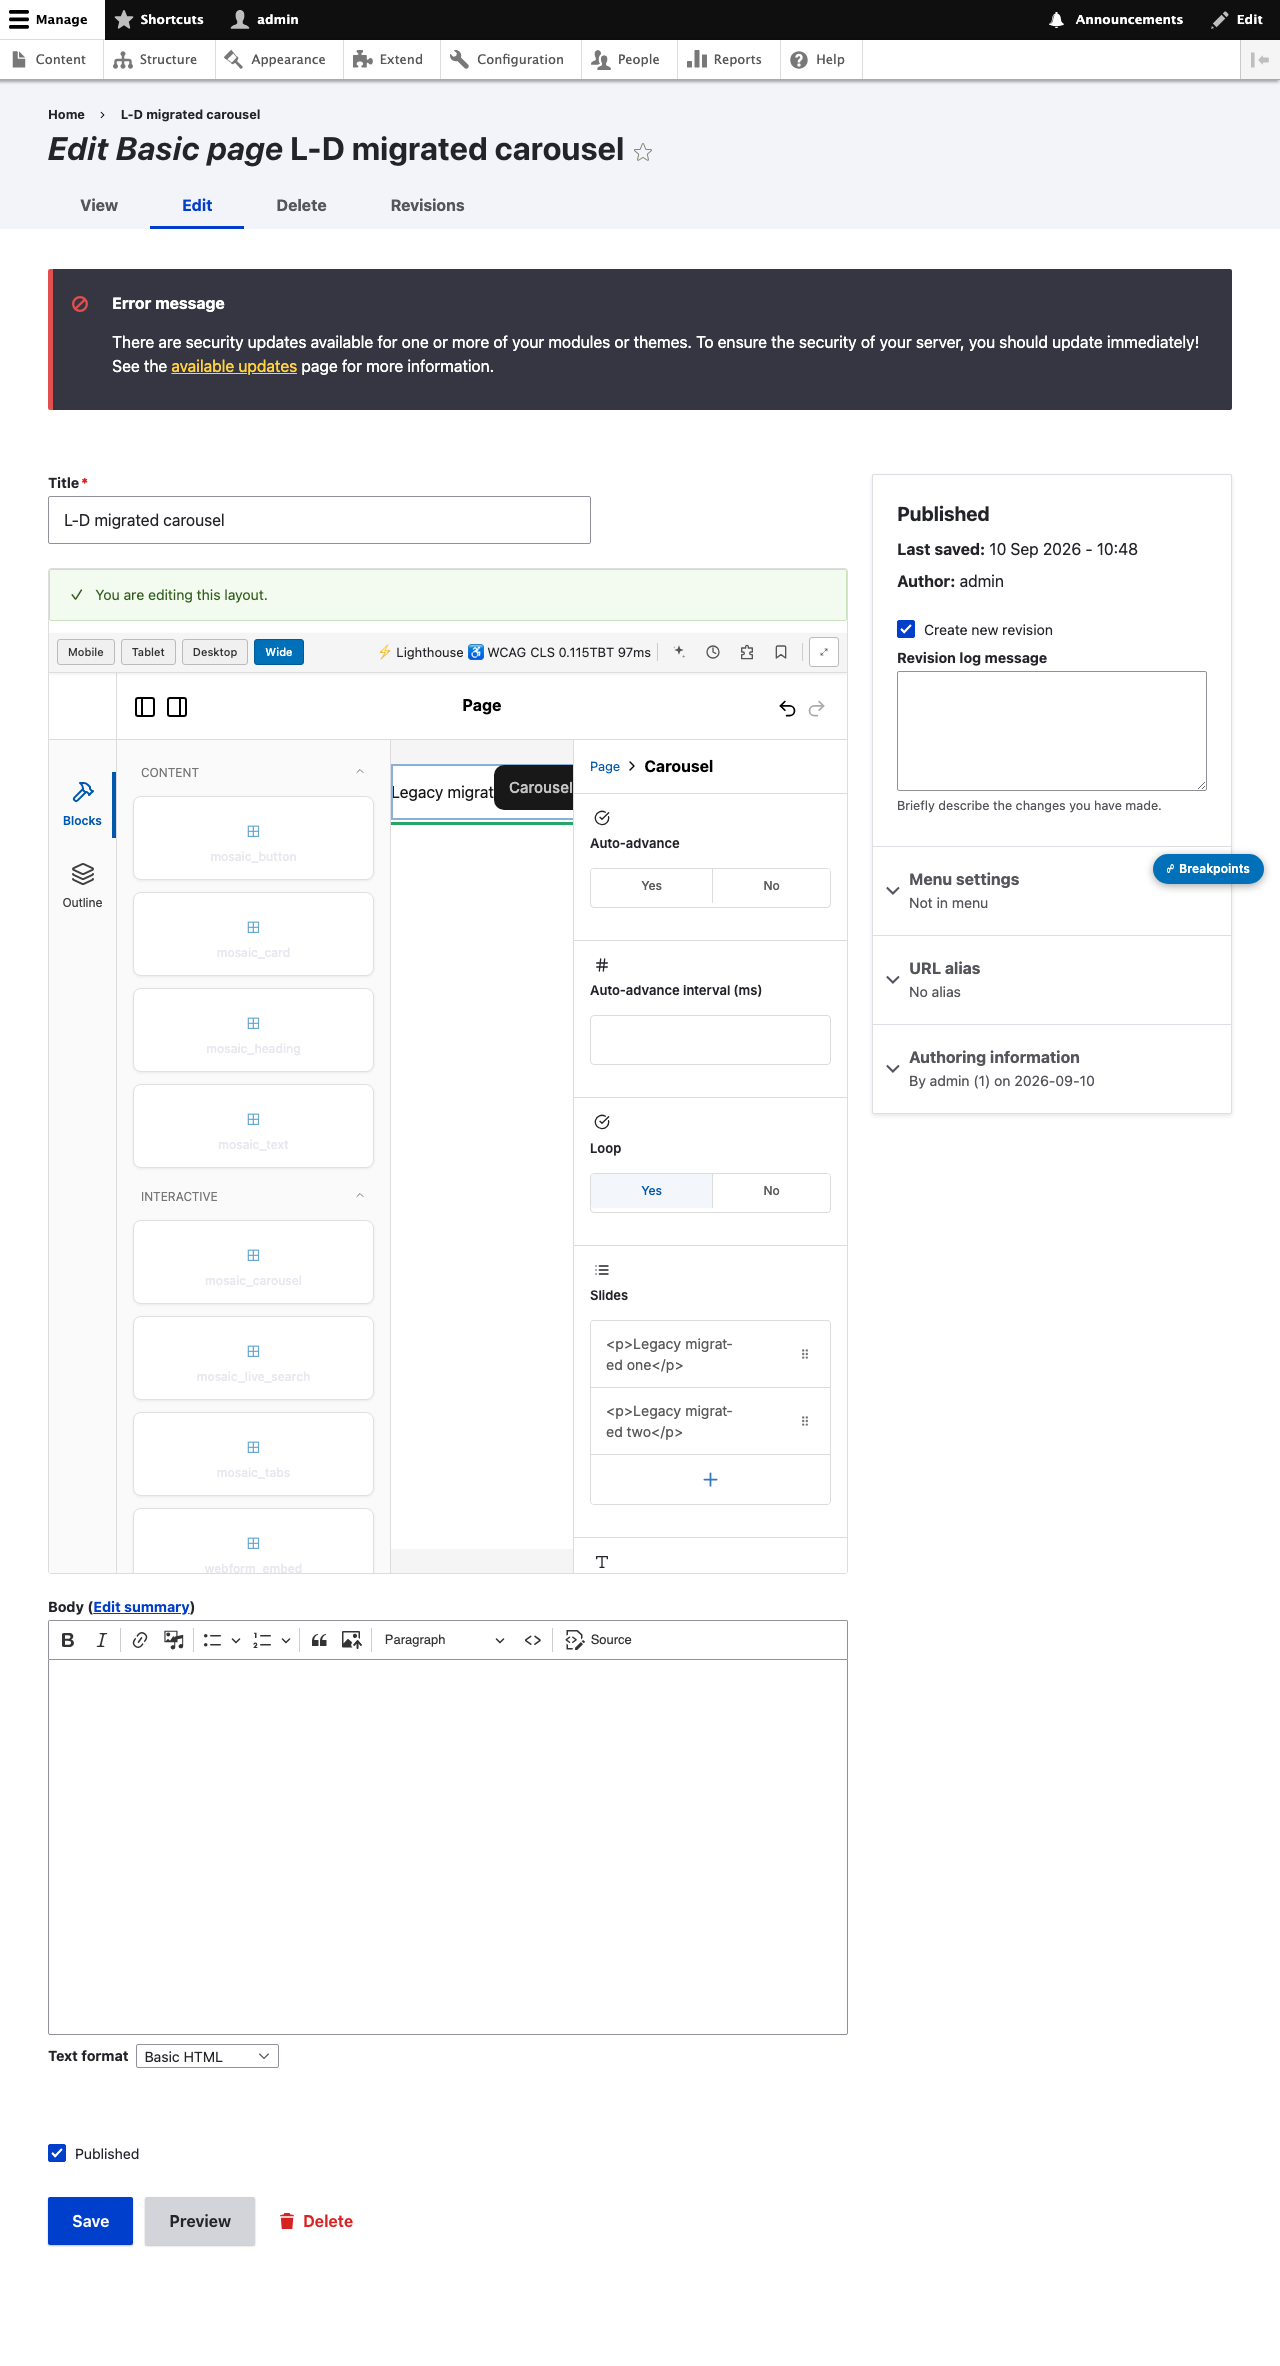
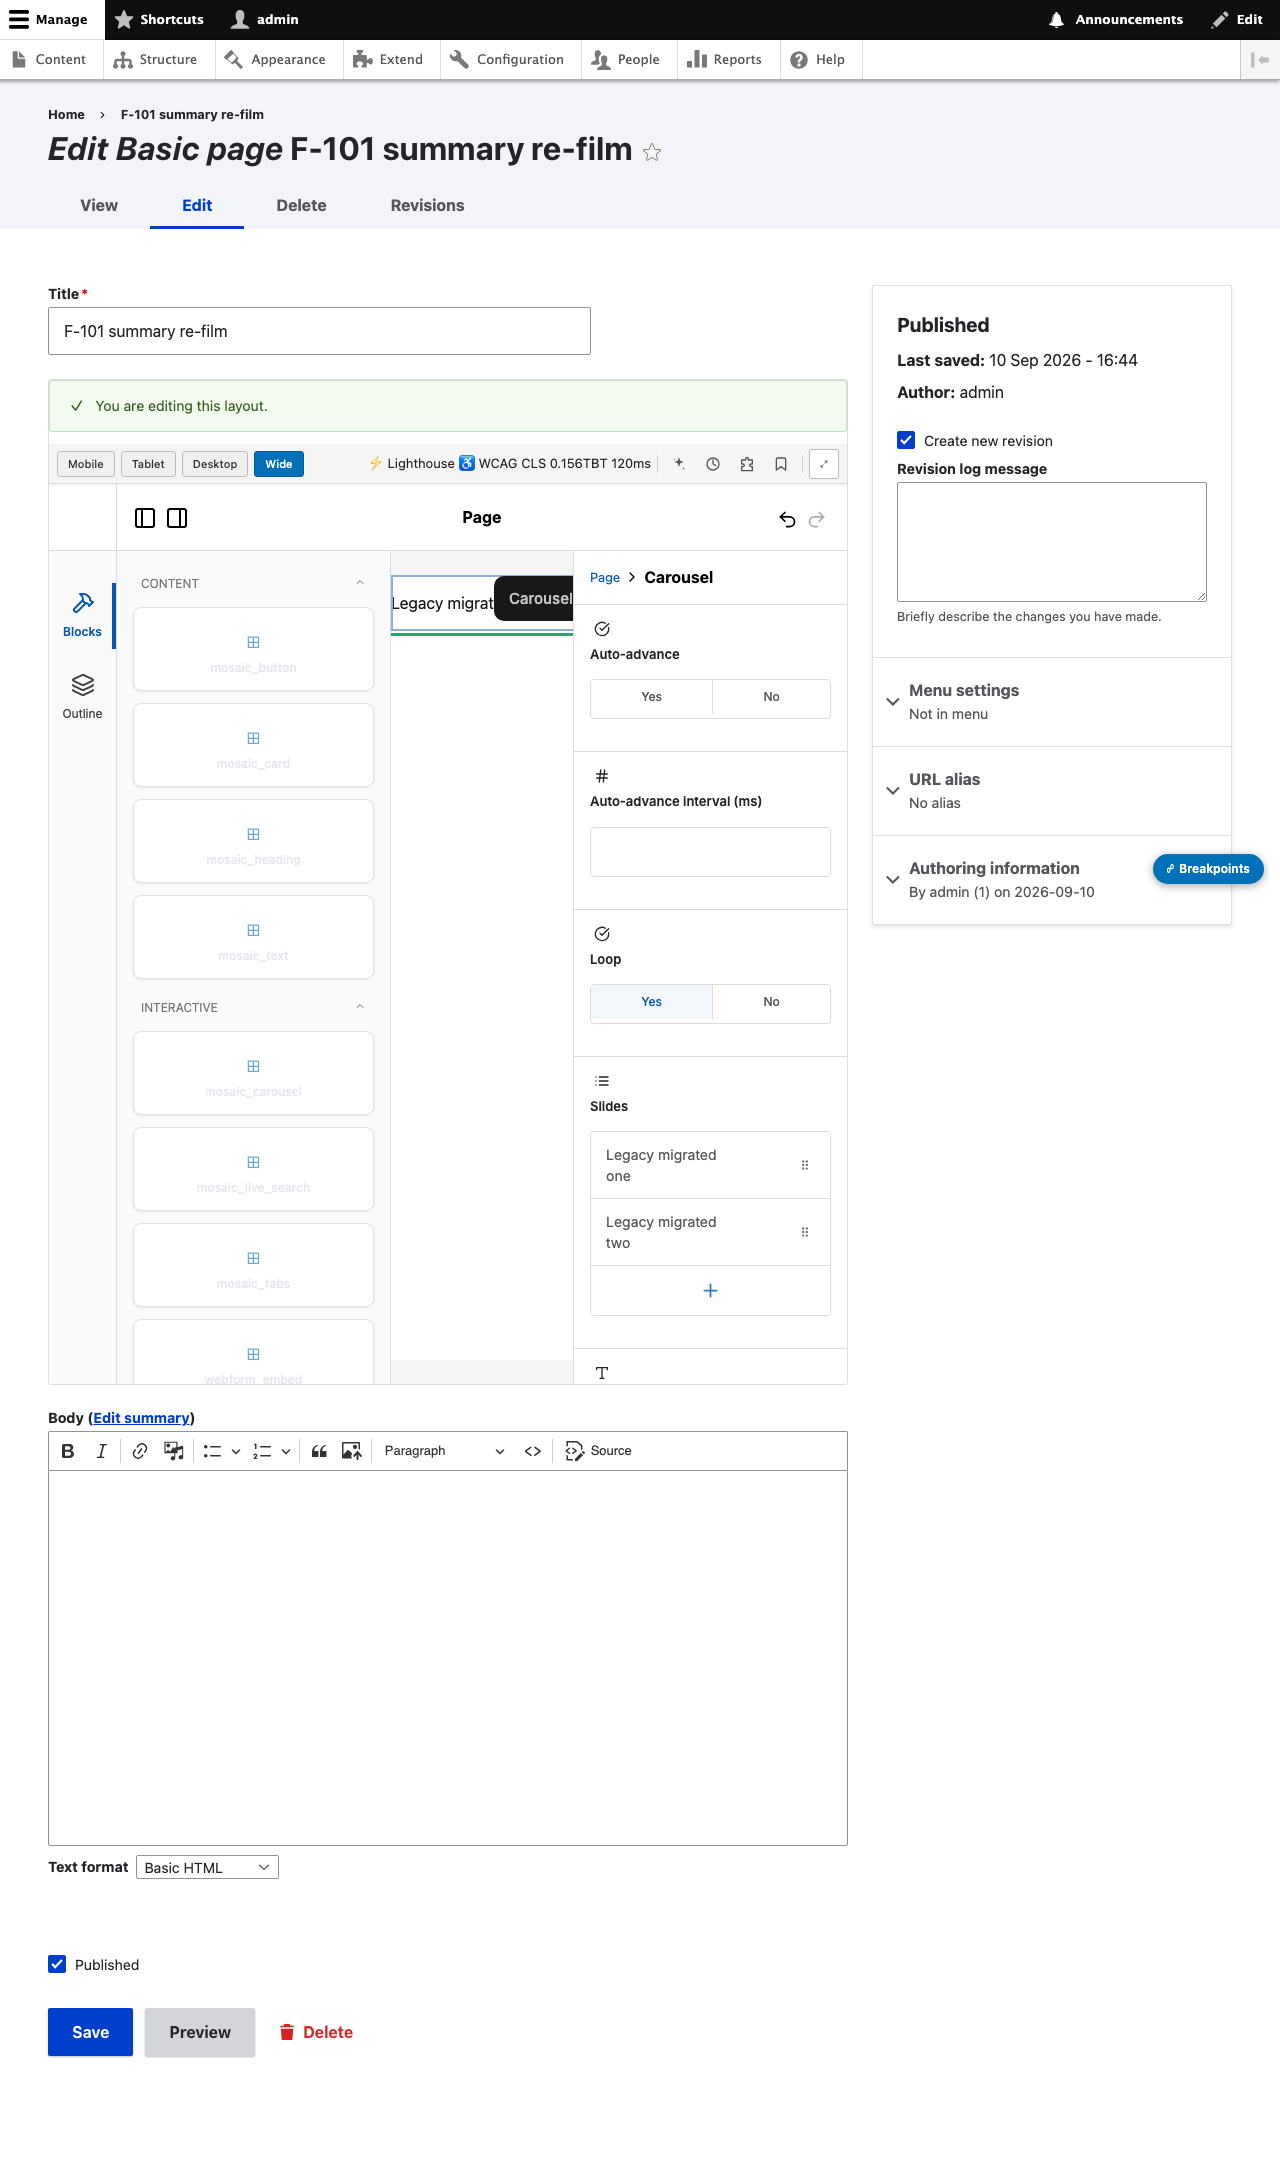
F-101 CLOSED: carousel slide-row summaries plain-text (shared getItemSummary), re-filmed frame 05

diff --git a/ledger-live/TODO.md b/ledger-live/TODO.md
@@ -12093,3 +12093,11 @@ covered the media library still "passed" because the DOM click ignored z-order).
   (11 frames + INDEX). AI/SHIP-34.md written (totals + add commands + noise verdict CLEAN). Scratch nodes
   auto-cleaned. **SHIP #34 = the coupled carousel landing, ONE uncommitted change set (28 tracked code files),
   all five checkpoints green + live-proven, ready for Arun's ceremony commit.** Walk tally 48 (no new walk-catch).
+- **F-101 CLOSED (reviewer frame-audit catch, pre-walk, XS) 2026-09-10.** Carousel slide-row summaries echoed raw
+  HTML in the Puck panel ('<p>Legacy migrated one</p>' visible; page render was already clean). Fixed at the
+  SHARED getItemSummary path (MosaicPuckAdapter.ts:1512 — grep-proven the ONE home, so any richtext-summarized
+  repeatable inherits it): new `plainSummary()` strips tags (regex) → decodes entities (detached textarea, inert,
+  XSS-safe) → collapses whitespace → truncates to 48 chars; empty/whitespace → 'Slide N' fallback. Vitest +5 cells
+  (plain/tagged/entities/empty/long-truncation) → FieldTypes 11/11; full Vitest 496/1-pre-B101; tsc 0. Re-filmed
+  frame 05 (panel shows 'Legacy migrated one' CLEAN, no '<p>'). dist rebuilt (builder+FE). Files (part of ship #34
+  set): MosaicPuckAdapter.ts, FieldTypes.test.ts. Reviewer-caught pre-walk → still one uncommitted ship #34.
